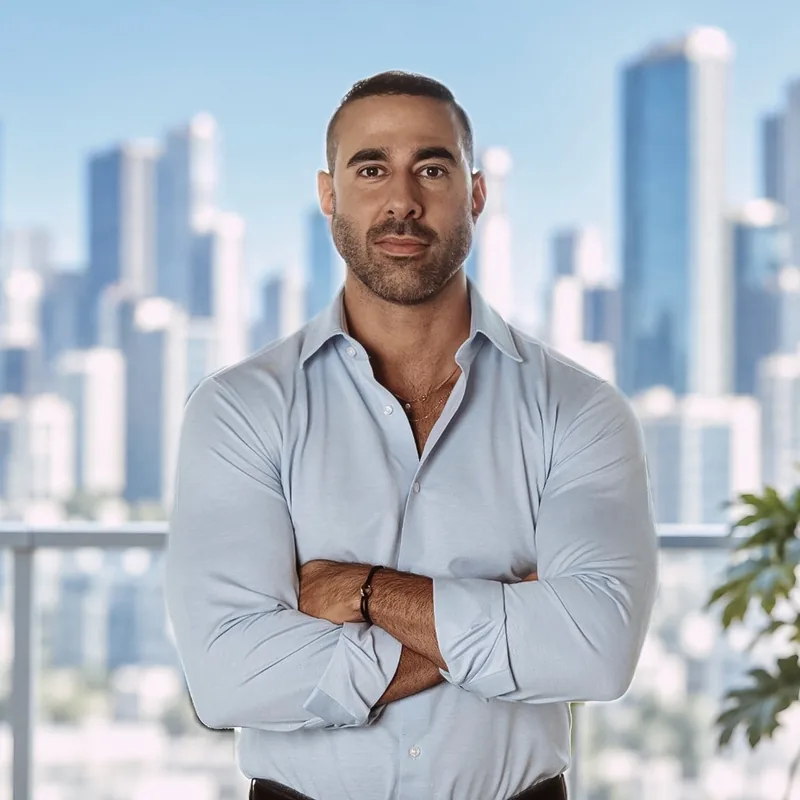
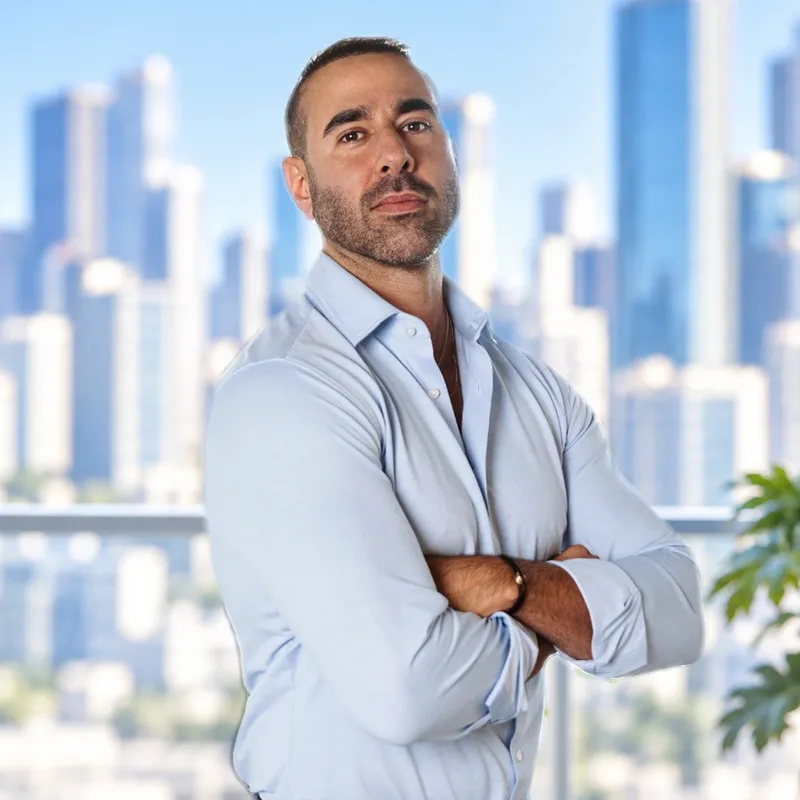
Update Liron Farache's portrait

diff --git a/components/sections/Personnel.tsx b/components/sections/Personnel.tsx
@@ -15,7 +15,7 @@ import { assetPath } from "@/lib/basePath";
 // behind hover -- names and roles are always visible, on every device.
 // Bump when portrait files are replaced in place: the host caches images for
 // a day by URL, so a new query string is what makes visitors fetch the new set.
-const PORTRAIT_VERSION = "2026-11-02c";
+const PORTRAIT_VERSION = "2026-11-02d";
 
 function PersonEntry({ person, index }: { person: Person; index: number }) {
   return (
